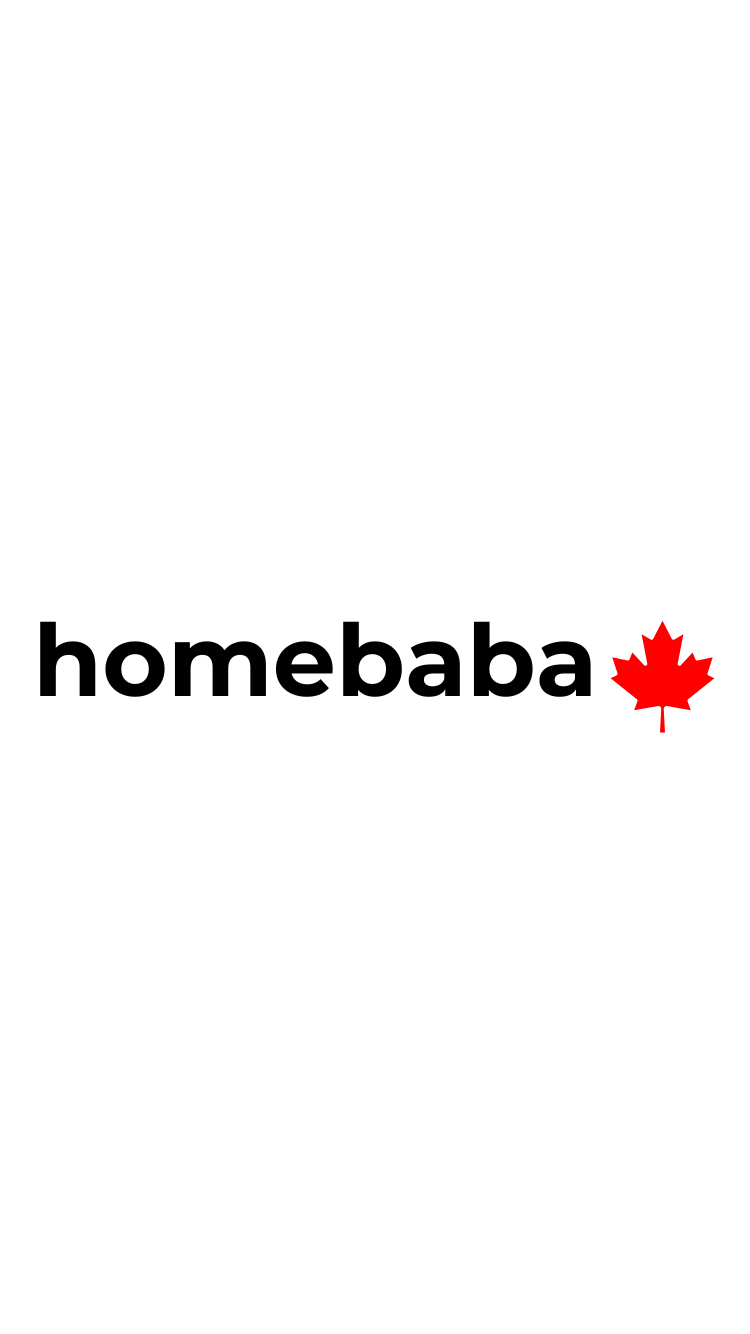
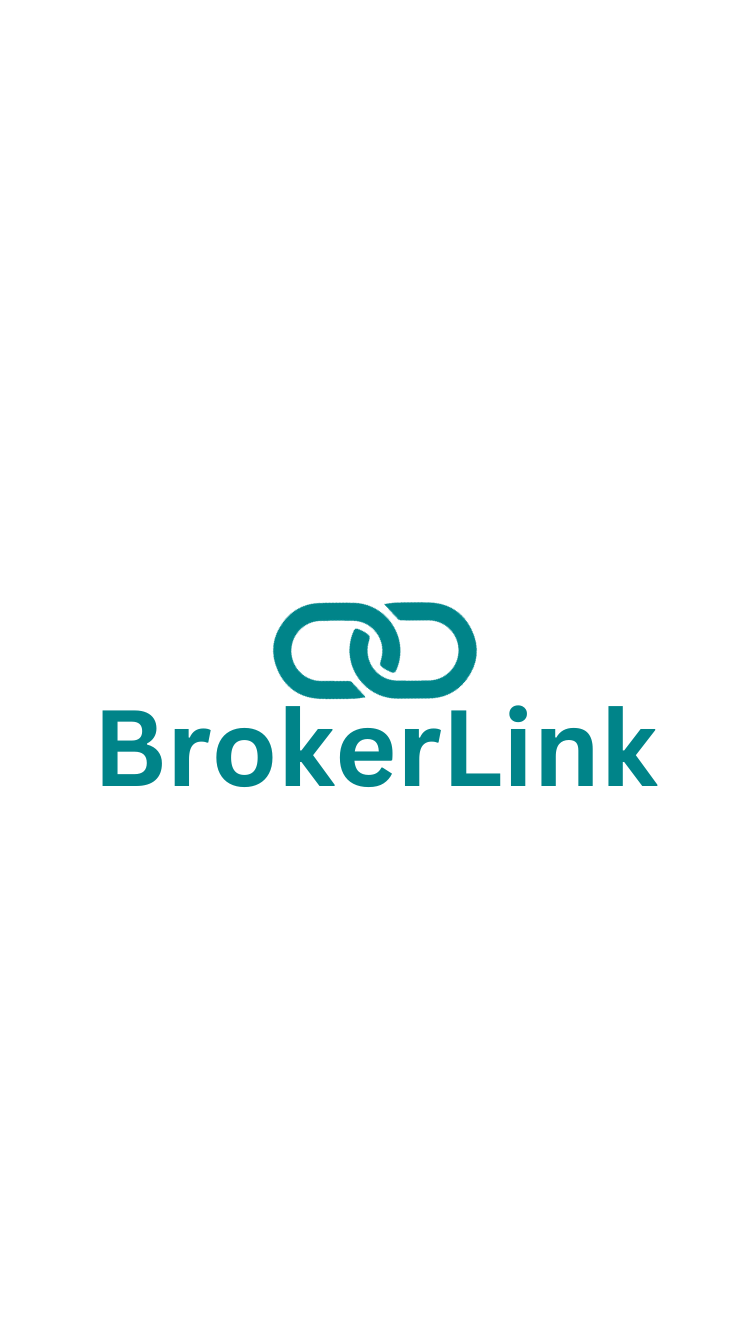
PUBLISH TEST

Changed region(s): [[0.0307, 0.4303, 0.9507, 0.6147]]

diff --git a/app.config.js b/app.config.js
@@ -2,17 +2,18 @@ import 'dotenv/config';
 
 export default {
   expo: {
-    name: 'EventNetwork',
-    slug: 'events-app',
+    name: 'BrokerLink',
+    slug: 'broker-link',
     privacy: 'public',
     platforms: ['ios', 'android'],
     version: '0.15.0',
     orientation: 'portrait',
-    icon: './assets/HOMMEEE.png',
+    icon: './assets/flame.png',
+
     splash: {
       image: './assets/splas.png',
       resizeMode: 'cover',
-      backgroundColor: '#FF0000'
+      backgroundColor: '#008489'
     },
     updates: {
       fallbackToCacheTimeout: 0
@@ -22,18 +23,17 @@ export default {
       supportsTablet: true
     },
     extra: {
-      apiKey: "AIzaSyAT1EfWI2IMKrGM_vM2bVoAX8c0nGpq1nQ",
+      apiKey: "AIzaSyDZuWuz0h-uAhFrssQQm3Mbi6StZtMeiUs",
 
-  authDomain: "homebaba-de874.firebaseapp.com",
+  authDomain: "eventsnet-fa0f0.firebaseapp.com",
 
-  projectId: "homebaba-de874",
+  projectId: "eventsnet-fa0f0",
 
-  storageBucket: "homebaba-de874.appspot.com",
+  storageBucket: "eventsnet-fa0f0.appspot.com",
 
-  messagingSenderId: "9451773000",
+  messagingSenderId: "901264439913",
 
-  appId: "1:9451773000:web:936d894ccc99401970cc7d"
-
+  appId: "1:901264439913:web:b0c1eb2fcfefe9ecfd40f8"
 
 
     }

diff --git a/screens/SellingScreen.js b/screens/SellingScreen.js
@@ -21,7 +21,7 @@ const Selling = ({ navigation }) => {
       const apiResponse = await response.json();
       console.log(apiResponse.results);
       if (apiResponse.results && Array.isArray(apiResponse.results)) {
-        const filteredData = apiResponse.results.filter(item => item.status === "Upcoming");
+        const filteredData = apiResponse.results.filter(item => item.status === "Selling");
         console.log("START HERE");
         console.log(filteredData);
         const simplifiedData = filteredData.map(item => {

diff --git a/screens/LoginScreen.js b/screens/LoginScreen.js
@@ -161,7 +161,7 @@ const styles = StyleSheet.create({
     justifyContent: 'center',
     alignItems: 'center',
     marginTop: 8,
-    backgroundColor: Colors.homebaba,
+    backgroundColor: Colors.airGreen,
     padding: 10,
     borderRadius: 8
     //add color opacity to background color

diff --git a/screens/ForgotPasswordScreen.js b/screens/ForgotPasswordScreen.js
@@ -96,7 +96,7 @@ const styles = StyleSheet.create({
     justifyContent: 'center',
     alignItems: 'center',
     marginTop: 8,
-    backgroundColor: Colors.logopurp,
+    backgroundColor: Colors.airGreen,
     padding: 10,
     borderRadius: 8
   },

diff --git a/config/images.js b/config/images.js
@@ -1,3 +1,3 @@
 export const Images = {
-  logo: require('../assets/homebaba.png')
+  logo: require('../assets/logo.png')
 };
